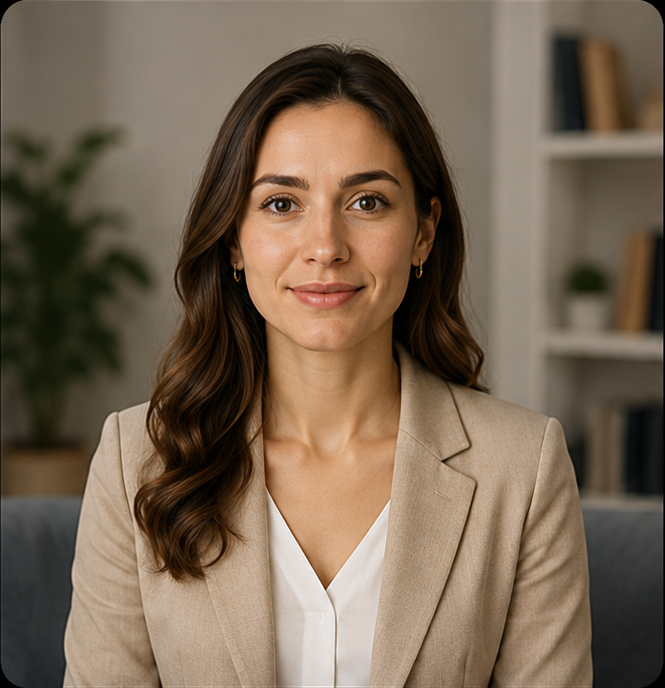
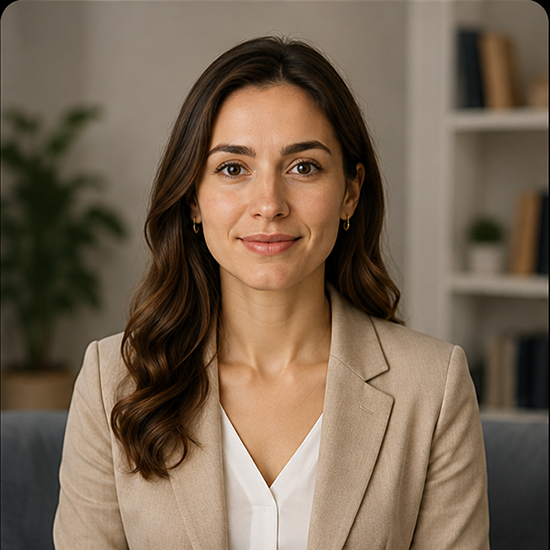
fix: made changes

diff --git a/src/components/App/index.tsx b/src/components/App/index.tsx
@@ -5,6 +5,7 @@ import { FinishedScreen } from 'components/Interview/screens/FinishedScreen';
 import { HomeScreen } from 'components/Interview/screens/HomeScreen';
 import { InvalidInterviewScreen } from 'components/Interview/screens/InvalidInterviewScreen';
 import { InstallExtensionScreen } from 'components/Interview/screens/InstallExtensionScreen';
+import { LoadingInterviewScreen } from 'components/Interview/screens/LoadingInterviewScreen';
 import { LiveScreen } from 'components/Interview/screens/LiveScreen';
 import { ReportScreen } from 'components/Interview/screens/ReportScreen';
 import { ThinkingScreen } from 'components/Interview/screens/ThinkingScreen';
@@ -24,7 +25,7 @@ export default function App(): JSX.Element {
 
   const extensionStartedRef = useRef(false);
 
-  const [screen, setScreen] = useState<Screen>(hasInterviewQuery ? 'connecting' : 'invalid');
+  const [screen, setScreen] = useState<Screen>(hasInterviewQuery ? 'loading' : 'invalid');
   const [selectedLanguage, setSelectedLanguage] = useState<number>(LangType.ENGLISH);
   const [extensionParams, setExtensionParams] = useState<MockInterviewParams | null>(null);
   const [extensionInstalled, setExtensionInstalled] = useState<boolean | null>(
@@ -171,6 +172,7 @@ export default function App(): JSX.Element {
     report: <ReportScreen onAgain={restartInterview} />,
     invalid: <InvalidInterviewScreen />,
     'install-extension': <InstallExtensionScreen extensionId={__EXTENSION_ID__} />,
+    loading: <LoadingInterviewScreen />,
   };
 
   return (

diff --git a/src/styles/index.scss b/src/styles/index.scss
@@ -1129,6 +1129,44 @@ button {
   font-size: 12px;
 }
 
+.loading-interview {
+  min-height: calc(100vh - 78px);
+  padding: 40px 24px;
+  display: flex;
+  flex-direction: column;
+  align-items: center;
+  justify-content: center;
+  text-align: center;
+}
+
+.loading-interview__spinner {
+  width: 54px;
+  height: 54px;
+  margin-bottom: 28px;
+  border: 4px solid #5bdbc533;
+  border-top-color: #48d1b9;
+  border-radius: 50%;
+  animation: loading-interview-spin 0.8s linear infinite;
+}
+
+.loading-interview h1 {
+  margin: 12px 0 10px;
+  font-size: clamp(30px, 4vw, 44px);
+  letter-spacing: -0.035em;
+}
+
+.loading-interview p {
+  margin: 0;
+  color: #717991;
+  font-size: 16px;
+}
+
+@keyframes loading-interview-spin {
+  to {
+    transform: rotate(360deg);
+  }
+}
+
 .results-layout {
   min-height: calc(100vh - 126px);
   padding: 55px clamp(40px, 6vw, 90px);
@@ -1468,7 +1506,8 @@ button {
   .blocking-state__main > p,
   .blocking-state__steps small,
   .blocking-state__steps > p,
-  .blocking-state__step-label {
+  .blocking-state__step-label,
+  .loading-interview p {
     color: #92a9ae;
   }
 

diff --git a/src/components/Interview/screens/LoadingInterviewScreen.tsx b/src/components/Interview/screens/LoadingInterviewScreen.tsx
@@ -1,0 +1,17 @@
+import React from 'react';
+
+import { TopBar } from '../shared/TopBar';
+
+export function LoadingInterviewScreen(): JSX.Element {
+  return (
+    <section className="screen screen--light loading-interview-screen">
+      <TopBar />
+      <div className="loading-interview" role="status" aria-live="polite">
+        <div className="loading-interview__spinner" aria-hidden="true" />
+        <span className="eyebrow">Preparing your session</span>
+        <h1>Loading interview...</h1>
+        <p>We&apos;re securely checking your interview details.</p>
+      </div>
+    </section>
+  );
+}

diff --git a/src/components/Interview/screens/InvalidInterviewScreen.tsx b/src/components/Interview/screens/InvalidInterviewScreen.tsx
@@ -14,7 +14,7 @@ export function InvalidInterviewScreen(): JSX.Element {
             </div>
             <span className="eyebrow">Interview unavailable</span>
             <h1>This interview link isn&apos;t valid</h1>
-            <p>It may have already been started or finished, or the address may be incomplete.</p>
+            <p>It may have already been finished, or the address may be incomplete.</p>
             <div className="blocking-state__actions">
               <button className="primary-button" onClick={() => window.history.back()}>
                 &larr; Go back

diff --git a/config/webpack.common.js b/config/webpack.common.js
@@ -3,7 +3,7 @@ const webpack = require('webpack')
 const paths = require('./paths')
 
 try {
-  process.loadEnvFile(pathtoresolve.resolve(__dirname, process.env.NODE_ENV === 'production' ? '../.env.production' : '../.env.development'))
+  process.loadEnvFile(pathtoresolve.resolve(__dirname, `../.env.${process.env.NODE_ENV}`))
 } catch (error) {
   if (error.code !== 'ENOENT') throw error
 }

diff --git a/src/components/Interview/screenDefinitions.ts b/src/components/Interview/screenDefinitions.ts
@@ -9,4 +9,5 @@ export const screenDefinitions: ScreenDefinition[] = [
   { id: 'report', label: 'Detailed report' },
   { id: 'invalid', label: 'Invalid interview' },
   { id: 'install-extension', label: 'Install extension' },
+  { id: 'loading', label: 'Loading interview' },
 ];

diff --git a/src/components/Interview/types.ts b/src/components/Interview/types.ts
@@ -6,7 +6,8 @@ export type Screen =
   | 'finished'
   | 'report'
   | 'invalid'
-  | 'install-extension';
+  | 'install-extension'
+  | 'loading';
 
 export type Theme = 'light' | 'dark';
 
